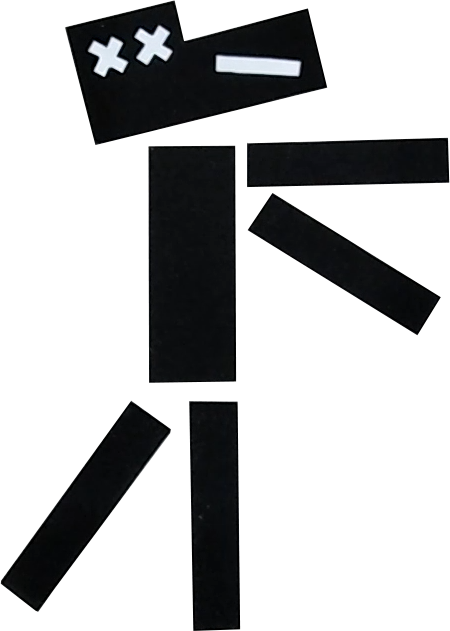
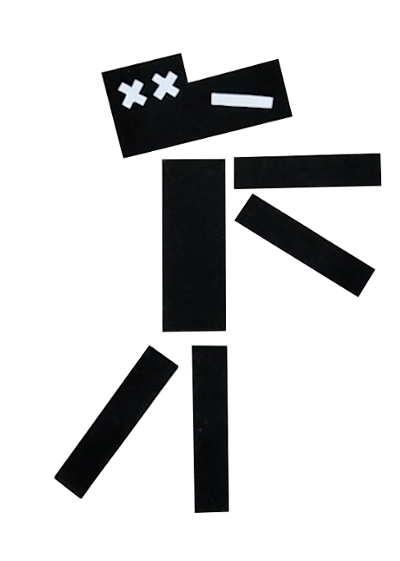
404, thank-you
images on views

Changed region(s): [[0.0, 0.0, 1.0, 1.0]]

diff --git a/src/pages/404.js b/src/pages/404.js
@@ -1,44 +1,44 @@
 import React from "react"
-import { graphql } from "gatsby"
+import { StaticQuery, graphql } from "gatsby"
+import Img from "gatsby-image"
 import Layout from "../components/layout"
 import SEO from "../components/seo"
 
-const NotFoundPage = ({ data }) => (
-  <Layout>
-    <SEO title="404: Not found" />
-    <h1 className="bgsize">
-      Página inexistente{" "}
-      <span aria-label="emoji" role="img">
-        😔
-      </span>
-    </h1>
-    <p>Intentaste visitar un vínculo que no existe</p>
-    <p>
-      Usa el menú para volver al sitio!{" "}
-      <span aria-label="emoji" role="img">
-        😃
-      </span>
-    </p>
-    <div className="video-container">
-      <div key={data.strapiPosition.id}>
-        <video autoPlay>
-          <source src={data.strapiPosition.video.publicURL} type="video/mp4" />
-        </video>
-      </div>
-    </div>
-  </Layout>
+const NotFoundPage = () => (
+  <StaticQuery
+    query={graphql`
+      query {
+        notFound: file(relativePath: { eq: "404.png" }) {
+          childImageSharp {
+            fluid(maxWidth: 400) {
+              ...GatsbyImageSharpFluid
+            }
+          }
+        }
+      }
+    `}
+    render={data => (
+      <Layout>
+        <SEO title="404: Not found" />
+        <h1 className="bgsize">
+          Página inexistente{" "}
+          <span aria-label="emoji" role="img">
+            😔
+          </span>
+        </h1>
+        <p>Intentaste visitar un vínculo que no existe</p>
+        <p>
+          Usa el menú para volver al sitio!{" "}
+          <span aria-label="emoji" role="img">
+            😃
+          </span>
+        </p>
+        <div className="notfound">
+          <Img fluid={data.notFound.childImageSharp.fluid} />
+        </div>
+      </Layout>
+    )}
+  />
 )
 
 export default NotFoundPage
-
-export const query = graphql`
-  query NotFoundPage {
-    strapiPosition(name: { eq: "5d" }) {
-      id
-      name
-      video {
-        publicURL
-      }
-    }
-  }
-`

diff --git a/src/pages/thank-you.js b/src/pages/thank-you.js
@@ -1,34 +1,31 @@
 import React from "react"
-import { graphql } from "gatsby"
+import { StaticQuery, graphql } from "gatsby"
+import Img from "gatsby-image"
 import Layout from "../components/layout"
 
-const ThankYouPage = ({ data }) => (
-  <Layout>
-    <h1 className="bgsize">¡Mensaje enviado!</h1>
+const ThankYouPage = () => (
+  <StaticQuery
+    query={graphql`
+      query {
+        notFound: file(relativePath: { eq: "ty.png" }) {
+          childImageSharp {
+            fluid(maxWidth: 400) {
+              ...GatsbyImageSharpFluid
+            }
+          }
+        }
+      }
+    `}
+    render={data => (
+      <Layout>        
+        <h1 className="bgsize">¡Mensaje enviado!</h1>
     <p>Te responderé a la bredad posible</p>
-    <div className="video-container">
-      <div key={data.strapiPosition.id}>
-        <video autoPlay>
-          <source
-            src={data.strapiPosition.video.publicURL}
-            type="video/mp4"
-          />
-        </video>
-      </div>
-    </div>
-  </Layout>
+        <div className="notfound">
+          <Img fluid={data.notFound.childImageSharp.fluid} />
+        </div>
+      </Layout>
+    )}
+  />
 )
 
 export default ThankYouPage
-
-export const query = graphql`
-  query ThankYouPage {
-    strapiPosition(name: { eq: "3a" }) {
-      id
-      name
-      video {
-        publicURL
-      }
-    }
-  }
-`

diff --git a/src/pages/styles.less b/src/pages/styles.less
@@ -1101,8 +1101,7 @@ This element renders outside home and page containers
   }
   /* 404:Not found */
   .notfound {
-    max-width: 50%;
-    margin-top: 6%;
+    max-width: 70%;
   }
 }
 /* Mobile Portrait */
